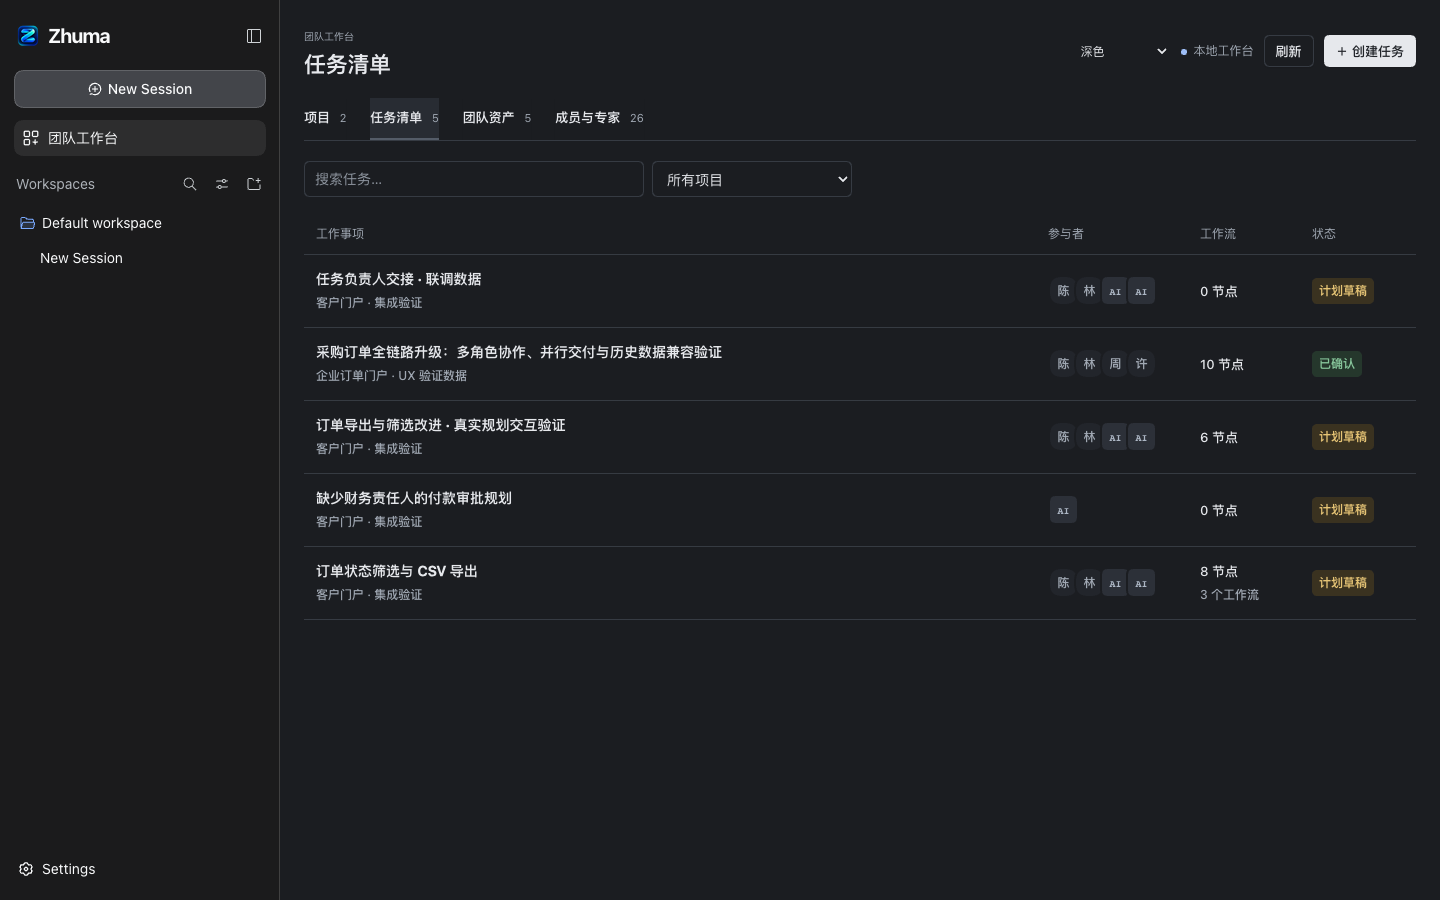
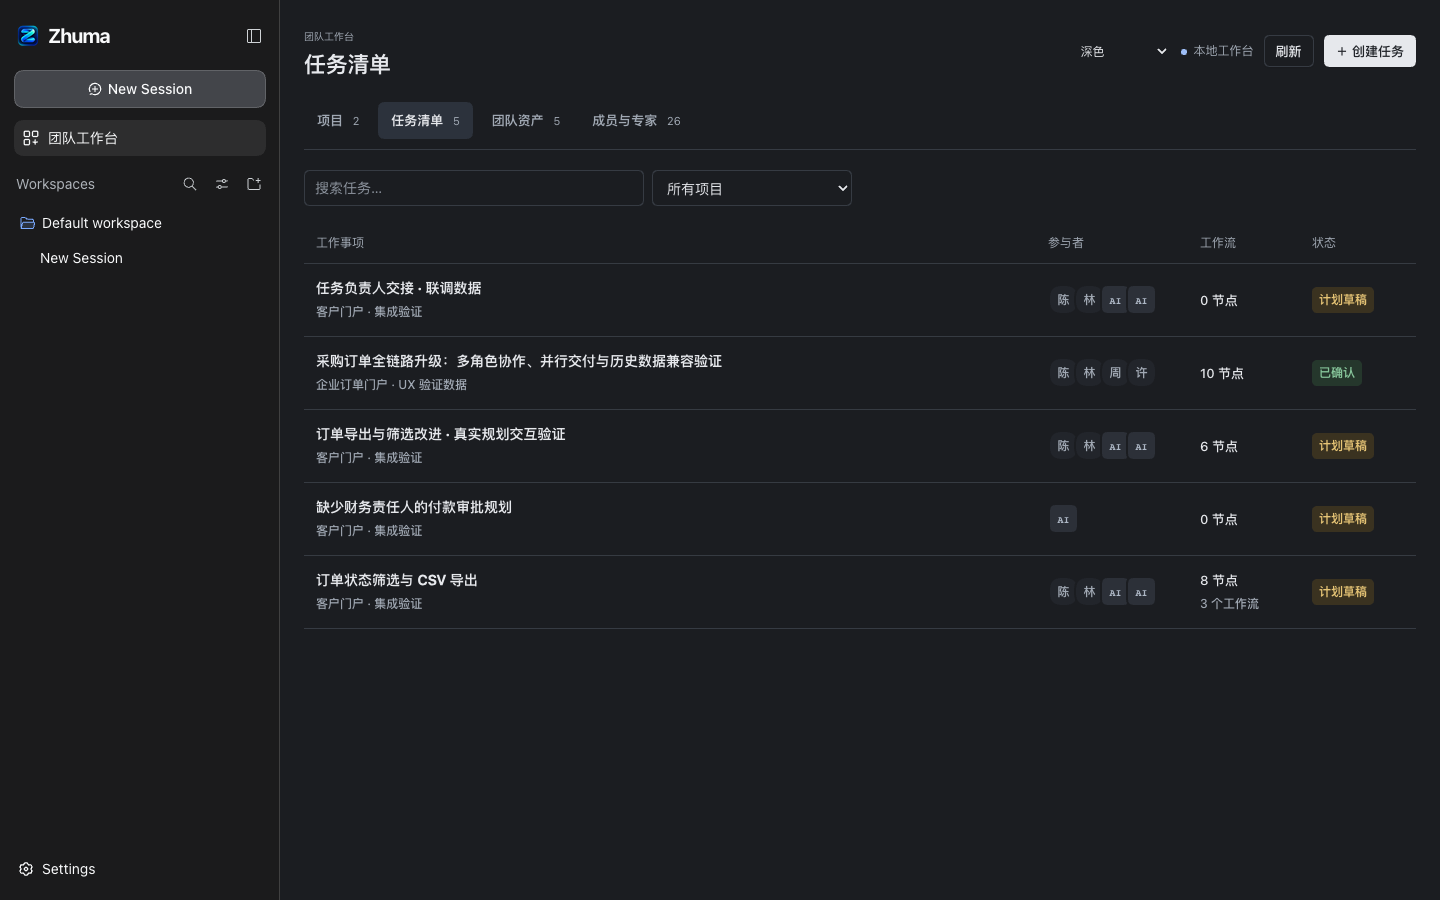
docs(review): refresh navigation hover comparison evidence

diff --git a/docs/ui-validation.md b/docs/ui-validation.md
@@ -24,7 +24,7 @@
 
 ## PR 内可见的对照
 
-本 PR 内首版 `56cf230` 与当前实现 `c095d99` 的任务清单、工作流查看、AI 草案浅深主题共 12 张完整截图，保存在 [PR #2 图片与拍摄说明](review/pr-2/README.md)。PR 正文使用固定提交的图片地址直接展示。截图采用相同公开演示数据和已记录的模型响应重放，不认证新的模型调用，也不把首版误称为 main 原有界面。
+本 PR 内首版 `56cf230` 与当前实现 `dfaa703` 的任务清单、工作流查看、AI 草案浅深主题共 12 张完整截图，另附以 `c095d99` 为修改前的导航标签浅深对照，共 16 张，保存在 [PR #2 图片与拍摄说明](review/pr-2/README.md)。PR 正文使用固定提交的图片地址直接展示。截图采用相同公开演示数据和已记录的模型响应重放，不认证新的模型调用，也不把首版误称为 main 原有界面。
 
 ## 本地截图索引
 
@@ -50,3 +50,7 @@
 旧库含缺失 ownerId 的任务与快照，实际重启 Host 后仍可读取。UI 已验证：缺负责人时阻止确认；显式选真人后可以确认；移除该负责人会提示先更换；创建弹窗内选择负责人不会误提交表单。当前工作流的责任人可补选，旧计划快照不追写。
 
 复核批次 `pnpm check` 共 107 项通过，包括精确读取 v1 不受 v2 草稿/确认影响、错误任务/计划/版本拒绝、旧数据 owner=null、不能指定专家/未参与者为负责人，以及旧幂等回执与默认 null 的兼容。输入产物的 ContextInputRef 形状保持 main 的契约，未适配 PR #3 的临时变更。
+
+## 导航悬停与选中留白
+
+用户反馈的贴边背景来自导航样式的左右零 padding 与通用 hover 背景叠加。已合并重复规则，统一为左右 12px 留白、8px 圆角与 36px 最小点击高度；选中项使用稳定背景，悬停和按下不改变尺寸，键盘焦点以内嵌轮廓避免被滚动容器裁剪。真实页面浅深主题验证了样式、hover 几何不变、Tab/Enter 切换与 720px 无页面水平溢出；`pnpm check` 再次 107/107 通过。仅该导航样式受影响，不扩展到 B 业务组件。
